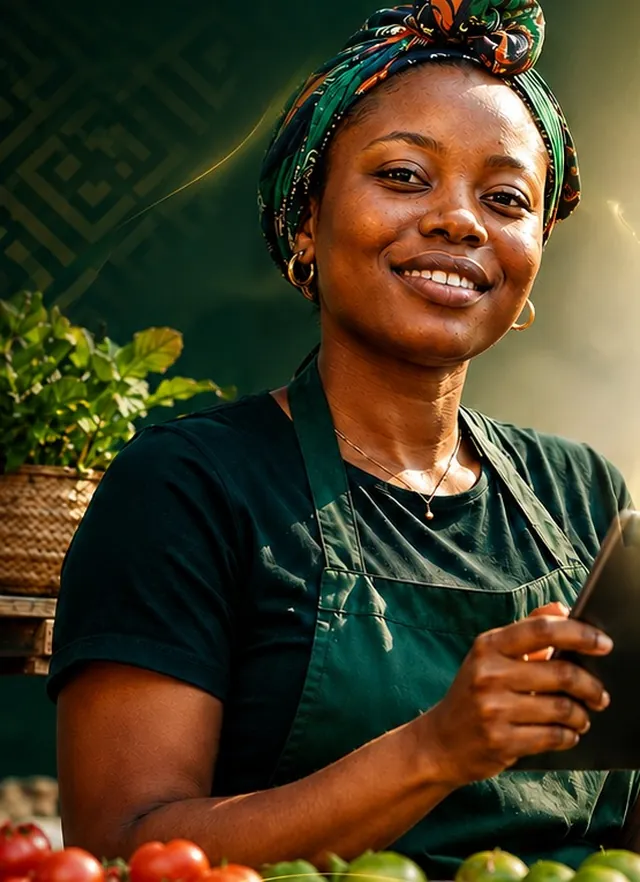
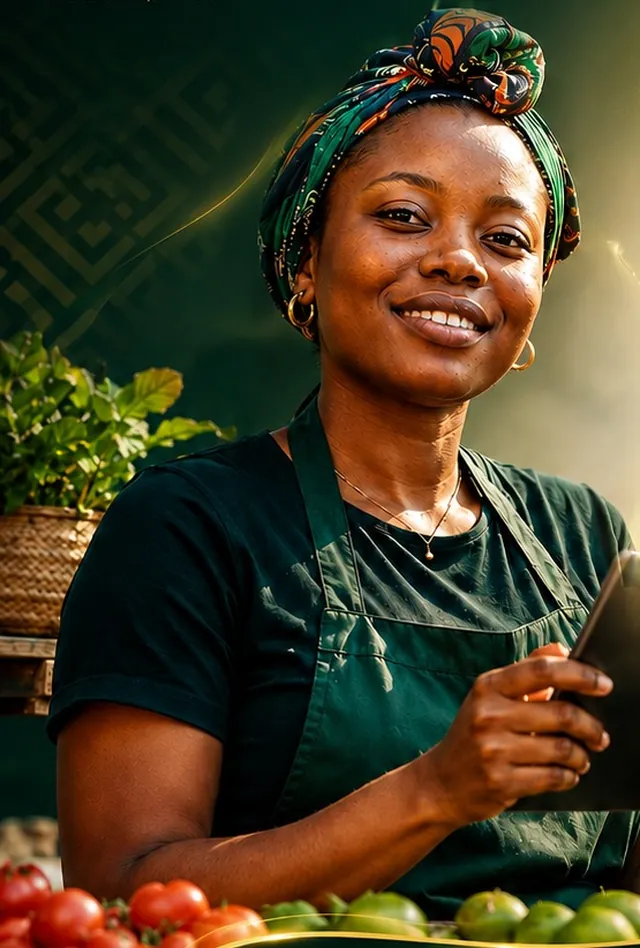
Recrop hero and ville images so the content actually sells
Carry flagged that the vendor in the hero photo didn't show what she
was selling, and the city band didn't clearly show the street plan or
cars. Re-cropped both from the original source photos:
- hero-vendeuse.webp now includes the tomatoes/limes at her market
  stall, not just her face/torso. Bumped .hero-media img height
  (520->620 desktop, 420->520 tablet, 340->440 mobile) and switched
  object-position to bottom so the produce stays in frame instead of
  being cropped off.
- section-ville.webp now centers on street level (cars, crosswalk,
  sidewalks) instead of mostly sky/upper building facades.

Claude-Session: https://claude.ai/code/session_01E6FpdmevGXTi1RN5dnNTRb

diff --git a/marketplace/index.html b/marketplace/index.html
@@ -107,7 +107,7 @@
   @media (max-width:900px){ .hero-grid{ grid-template-columns:1fr; } }
   .hero-media{ position:relative; }
   .hero-media .frame{ position:relative; border-radius:30px; overflow:hidden; box-shadow:0 34px 60px -22px rgba(14,27,52,.4); }
-  .hero-media img{ width:100%; height:520px; object-fit:cover; object-position:top center; transition:transform 1.4s cubic-bezier(.2,.7,.2,1); }
+  .hero-media img{ width:100%; height:620px; object-fit:cover; object-position:center bottom; transition:transform 1.4s cubic-bezier(.2,.7,.2,1); }
   .hero-media:hover img{ transform:scale(1.05); }
   .hero-media::before{ content:""; position:absolute; inset:-16px; border-radius:38px; background:var(--grad-luxe); opacity:.22; filter:blur(26px); z-index:-1; }
   .hero-badge{ position:absolute; background:#fff; border-radius:16px; padding:12px 18px; box-shadow:0 16px 34px -12px rgba(14,27,52,.3);
@@ -116,8 +116,8 @@
   .hero-badge.b2{ bottom:26px; left:-22px; animation-delay:1.1s; }
   .hero-badge .dot-ok{ width:10px; height:10px; border-radius:50%; background:var(--green); box-shadow:0 0 0 5px rgba(47,163,107,.18); flex:none; }
   @keyframes floatY{ 0%,100%{ transform:translateY(0); } 50%{ transform:translateY(-10px); } }
-  @media (max-width:900px){ .hero-media img{ height:420px; } }
-  @media (max-width:640px){ .hero-badge{ font-size:.7rem; padding:9px 12px; gap:7px; } .hero-badge.b1{ top:-10px; right:-6px; } .hero-badge.b2{ bottom:12px; left:-10px; } .hero-media img{ height:340px; } }
+  @media (max-width:900px){ .hero-media img{ height:520px; } }
+  @media (max-width:640px){ .hero-badge{ font-size:.7rem; padding:9px 12px; gap:7px; } .hero-badge.b1{ top:-10px; right:-6px; } .hero-badge.b2{ bottom:12px; left:-10px; } .hero-media img{ height:440px; } }
 
   /* ---------- Ville band ---------- */
   .ville-band{ position:relative; border-radius:var(--radius-lg); overflow:hidden; margin:10px 0 60px; height:340px;
